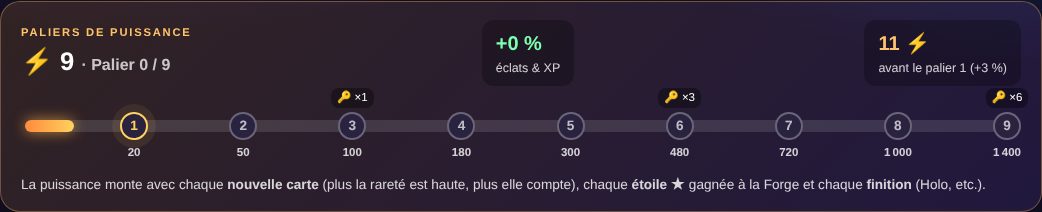
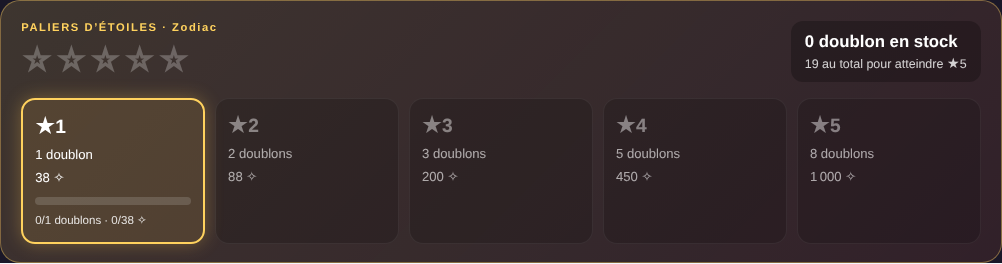
67

diff --git a/js/v118-cards-lab.js b/js/v118-cards-lab.js
@@ -434,6 +434,18 @@ function powerTrack(){
   <p>La puissance monte avec chaque <b>nouvelle carte</b> (plus la rareté est haute, plus elle compte), chaque <b>étoile ★</b> gagnée à la Forge et chaque <b>finition</b> (Holo, etc.).</p>
  </section>`;
 }
+// V143 — Paliers d'étoiles de la Forge : ce que coûte chaque ★ et où en est la carte.
+function starTrack(cur,v){
+ if(!cur||!v)return '';const st=v.stars||0,dups=Math.max(0,v.count-1),t=tierOf(cur);
+ const steps=STAR_COPIES.map((copies,i)=>({n:i+1,copies,dust:Math.round(STAR_DUST[i]*STAR_FACTOR[t]*forgeDiscount())}));
+ const totalLeft=steps.slice(st).reduce((a,x)=>a+x.copies,0);
+ return `<section class="dlfr143-stars" aria-label="Paliers d’étoiles de ${esc(cur.name)}">
+  <div class="dlfr143-stars-head"><div><small>PALIERS D’ÉTOILES · ${esc(cur.name)}</small><strong>${'★'.repeat(st)}<span>${'☆'.repeat(5-st)}</span></strong></div>
+   <div class="dlfr143-stars-sum">${st>=5?'<b>Étoiles maximales</b><span>Les doublons se recyclent en poussière ✧</span>':`<b>${dups} doublon${dups>1?'s':''} en stock</b><span>${totalLeft} au total pour atteindre ★5</span>`}</div></div>
+  <ol class="dlfr143-steps">${steps.map(x=>{const done=x.n<=st,now=x.n===st+1,pc=now?Math.min(100,dups/x.copies*100):done?100:0,okD=now&&dups>=x.copies,okP=now&&progress.dust>=x.dust;
+   return `<li class="${done?'is-done':now?'is-now':''}"><em>★${x.n}</em><span>${x.copies} doublon${x.copies>1?'s':''}</span><span>${fmt(x.dust)} ✧</span>${now?`<i><b style="width:${pc}%"></b></i><small class="${okD&&okP?'ok':''}">${okD?'✓':Math.min(dups,x.copies)+'/'+x.copies} doublons · ${okP?'✓':fmt(progress.dust)+'/'+fmt(x.dust)} ✧</small>`:done?'<small>✓ Atteint</small>':''}</li>`;}).join('')}</ol>
+ </section>`;
+}
 function packArt(pack,size=''){
  return `<div class="dlfr117-booster b-${pack.theme} ${size}" aria-hidden="true"><div class="b-crimp"></div><div class="b-body"><div class="b-pattern"></div><div class="b-glow"></div><div class="b-logo">DLFR <b>CARDS</b></div><div class="b-emblem">${pack.emblem}</div><div class="b-name">${esc(pack.name)}</div><div class="b-meta">${pack.real?pack.count:packCount(pack)} CARTE${(pack.real?pack.count:packCount(pack))>1?'S':''} · ORIGINS</div><div class="b-foil"></div></div><div class="b-crimp b-bottom"></div></div>`;
 }
@@ -480,8 +492,9 @@ function forgeView(data){
  const list=CARDS.filter(c=>has(c.id)).sort((a,b)=>tierOf(b)-tierOf(a)||a.id-b.id);
  if(!list.find(c=>c.id===forgeSel))forgeSel=list[0]?.id||0;
  const cur=get(forgeSel),v=cur&&owned.get(cur.id),k=cur&&v?starCost(cur,v):null;
- return `<section class="dlfr117-panel"><div class="dlfr117-head"><div><small>FORGE</small><h2>Étoiles</h2><p>Consomme des doublons et de la poussière ✧ pour faire monter une carte jusqu’à ★5. Chaque étoile augmente ta puissance de collection, qui donne des bonus permanents.</p></div><div class="dlfr117-slots"><b>⚡ ${fmt(collectionPower())}</b><span>Palier ${powerTier()} / ${POWER_TIERS.length}</span><small>${powerTier()<POWER_TIERS.length?`Prochain palier à ${POWER_TIERS[powerTier()]}`:'Palier maximal'} · +${powerTier()*3} % éclats & XP</small></div></div>
-  ${list.length?`<div class="dlfr117-forge"><div class="dlfr117-forge-list">${list.map(c=>{const o=owned.get(c.id),sc=starCost(c,o),ready=sc&&o.count-1>=sc.copies&&progress.dust>=sc.dust;return `<button type="button" class="dlfr117-forge-item ${c.id===forgeSel?'is-current':''} ${ready?'is-ready':''}" data-v112-act="forge-select" data-id="${c.id}"><span class="t${tierOf(c)}">${esc(c.name)}</span><small>${'★'.repeat(o.stars||0)}${'☆'.repeat(5-(o.stars||0))} · ×${o.count}</small></button>`;}).join('')}</div>
+ return `<section class="dlfr117-panel"><div class="dlfr117-head"><div><small>FORGE</small><h2>Étoiles</h2><p>Consomme des doublons et de la poussière ✧ pour faire monter une carte jusqu’à ★5. Chaque étoile augmente ta puissance de collection, qui donne des bonus permanents.</p></div></div>
+  ${starTrack(cur,v)}${powerTrack()}
+  ${list.length?`<div class="dlfr117-forge"><div class="dlfr117-forge-list">${list.map(c=>{const o=owned.get(c.id),sc=starCost(c,o),ready=sc&&o.count-1>=sc.copies&&progress.dust>=sc.dust;return `<button type="button" class="dlfr117-forge-item ${c.id===forgeSel?'is-current':''} ${ready?'is-ready':''}" data-v112-act="forge-select" data-id="${c.id}"><span class="t${tierOf(c)}">${esc(c.name)}</span><small>${'★'.repeat(o.stars||0)}${'☆'.repeat(5-(o.stars||0))} · ${sc?`${Math.min(o.count-1,sc.copies)}/${sc.copies} doublon${sc.copies>1?'s':''}`:'MAX'}</small>${sc?`<i class="dlfr143-mini"><b style="width:${Math.min(100,(o.count-1)/sc.copies*100)}%"></b></i>`:''}${ready?'<em class="dlfr143-ready">Prêt !</em>':''}</button>`;}).join('')}</div>
    <div class="dlfr117-forge-main">${cur?`<div class="dlfr117-forge-card">${figure(cur,data)}</div><div class="dlfr117-forge-info"><h3>${esc(cur.name)}</h3><p>${esc(rarity(cur))} · ${FIN_NAME[v.finish||0]} · ★${v.stars||0}/5</p>
     ${k?`<ul class="dlfr117-reqs"><li class="${v.count-1>=k.copies?'ok':''}">Doublons : ${v.count-1} / ${k.copies}</li><li class="${progress.dust>=k.dust?'ok':''}">Poussière : ${fmt(progress.dust)} / ${fmt(k.dust)} ✧</li></ul><button class="btn" type="button" data-v112-act="upgrade" data-id="${cur.id}" ${v.count-1>=k.copies&&progress.dust>=k.dust?'':'disabled'}>Forger ★${(v.stars||0)+1}</button>`:'<p class="dlfr117-done">★★★★★ Étoiles maximales</p>'}</div>`:''}</div></div>`:'<p class="dlfr117-empty">Ouvre des boosters pour remplir la Forge.</p>'}
   <div class="dlfr117-sub"><h3>Doublons des cartes ★5</h3><p class="dlfr117-muted">Une carte ★5 ne peut plus monter : ses doublons peuvent être recyclés en poussière ✧.</p>
@@ -500,7 +513,7 @@ function goalsView(){
 function progressionPage(data){
  ensureQuests();
  const inner=view==='packs'?boostersView():view==='expeditions'?expeditionsView():view==='talents'?talentsView():view==='forge'?forgeView(data):goalsView();
- return `<div class="dlfr117-game">${hud()}${powerTrack()}${inner}
+ return `<div class="dlfr117-game">${hud()}${inner}
   <div class="dlfr117-footer"><p>Ta partie est sauvegardée automatiquement sur ton compte.${editor?' Importer une sauvegarde passe la session en <strong>mode test</strong> (plus de sauvegarde automatique jusqu’au rechargement).':''}</p><div class="dlfr113-create-buttons"><button class="btn subtle" data-v112-act="export-session" type="button">↓ Exporter ma partie</button>${editor?'<button class="btn subtle" data-v112-act="open-session-import" type="button">↑ Importer (test)</button>':''}<input type="file" id="dlfr114SessionFile" accept="application/json,.json" hidden></div></div></div>`;
 }
 

diff --git a/css/v131-cards.css b/css/v131-cards.css
@@ -183,3 +183,21 @@ html.dark .c131-step.t0,.dlfr117-panel .c131-step.t0,.dlfr117-game .c131-step.t0
 @keyframes dlfr143pulse{50%{box-shadow:0 0 0 8px rgba(255,210,94,.08)}}
 @media (max-width:600px){.dlfr143-node small{display:none}.dlfr143-node em{width:22px;height:22px;font-size:.72rem}.dlfr143-node u{font-size:.62rem}.dlfr143-track-head strong{font-size:1.3rem}}
 @media (prefers-reduced-motion:reduce){.dlfr143-node.is-next em{animation:none}}
+/* V143 — paliers d'étoiles de la Forge */
+.dlfr143-stars{margin:14px 0;padding:18px 20px;border-radius:20px;background:linear-gradient(135deg,rgba(255,215,90,.16),rgba(255,120,60,.1));border:1px solid rgba(255,210,100,.4);color:#fff}
+.dlfr143-stars-head{display:flex;flex-wrap:wrap;gap:12px 24px;align-items:center;justify-content:space-between;margin-bottom:14px}
+.dlfr143-stars-head small{display:block;font-size:.7rem;letter-spacing:.14em;font-weight:800;color:#ffd25e}
+.dlfr143-stars-head strong{font-size:1.9rem;color:#ffd25e;letter-spacing:.08em;text-shadow:0 0 12px rgba(255,200,80,.6)}.dlfr143-stars-head strong span{color:rgba(255,255,255,.25);text-shadow:none}
+.dlfr143-stars-sum{display:flex;flex-direction:column;padding:8px 14px;border-radius:12px;background:rgba(0,0,0,.25)}.dlfr143-stars-sum b{font-size:1.05rem}.dlfr143-stars-sum span{font-size:.78rem;opacity:.8}
+.dlfr143-steps{list-style:none;margin:0;padding:0;display:grid;grid-template-columns:repeat(5,minmax(0,1fr));gap:10px}
+.dlfr143-steps li{display:flex;flex-direction:column;gap:3px;padding:12px;border-radius:14px;background:rgba(0,0,0,.28);border:1px solid rgba(255,255,255,.1);opacity:.6;min-width:0}
+.dlfr143-steps em{font-style:normal;font-weight:900;font-size:1.2rem;color:rgba(255,255,255,.7)}
+.dlfr143-steps span{font-size:.82rem}.dlfr143-steps small{font-size:.72rem;opacity:.85;margin-top:4px}
+.dlfr143-steps li.is-done{opacity:1;border-color:rgba(255,210,94,.5)}.dlfr143-steps li.is-done em{color:#ffd25e}
+.dlfr143-steps li.is-now{opacity:1;border:2px solid #ffd25e;box-shadow:0 0 18px rgba(255,200,80,.3);background:rgba(255,200,80,.12)}.dlfr143-steps li.is-now em{color:#fff}
+.dlfr143-steps i{display:block;height:8px;border-radius:99px;background:rgba(255,255,255,.15);overflow:hidden;margin-top:6px}.dlfr143-steps i b{display:block;height:100%;background:linear-gradient(90deg,#ff9a3d,#ffd25e)}
+.dlfr143-steps small.ok{color:#7dffb0;font-weight:800}
+.dlfr143-mini{display:block;height:4px;border-radius:99px;background:rgba(127,127,127,.25);overflow:hidden;margin-top:4px}.dlfr143-mini b{display:block;height:100%;background:linear-gradient(90deg,#ff9a3d,#ffd25e)}
+.dlfr143-ready{font-style:normal;font-size:.68rem;font-weight:900;color:#1a1200;background:#ffd25e;border-radius:6px;padding:1px 6px;align-self:flex-start;margin-top:4px}
+@media (max-width:700px){.dlfr143-steps{grid-template-columns:repeat(2,minmax(0,1fr))}.dlfr143-steps li.is-now{grid-column:1/-1}}
+.dlfr117-forge-item{flex-wrap:wrap}.dlfr117-forge-item .dlfr143-mini{flex-basis:100%;width:100%}
